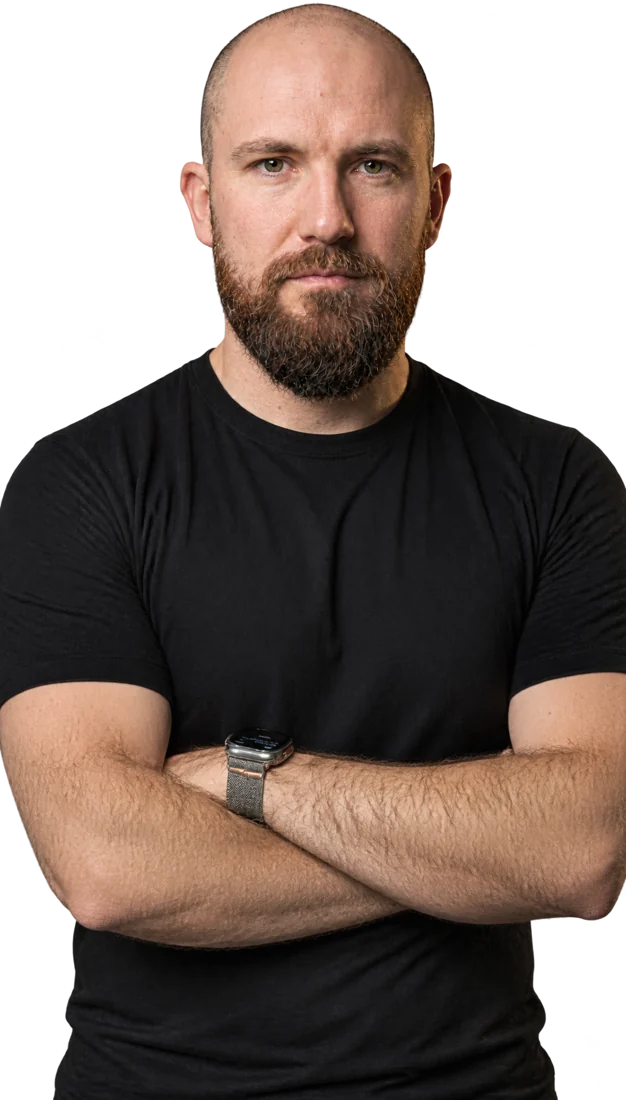
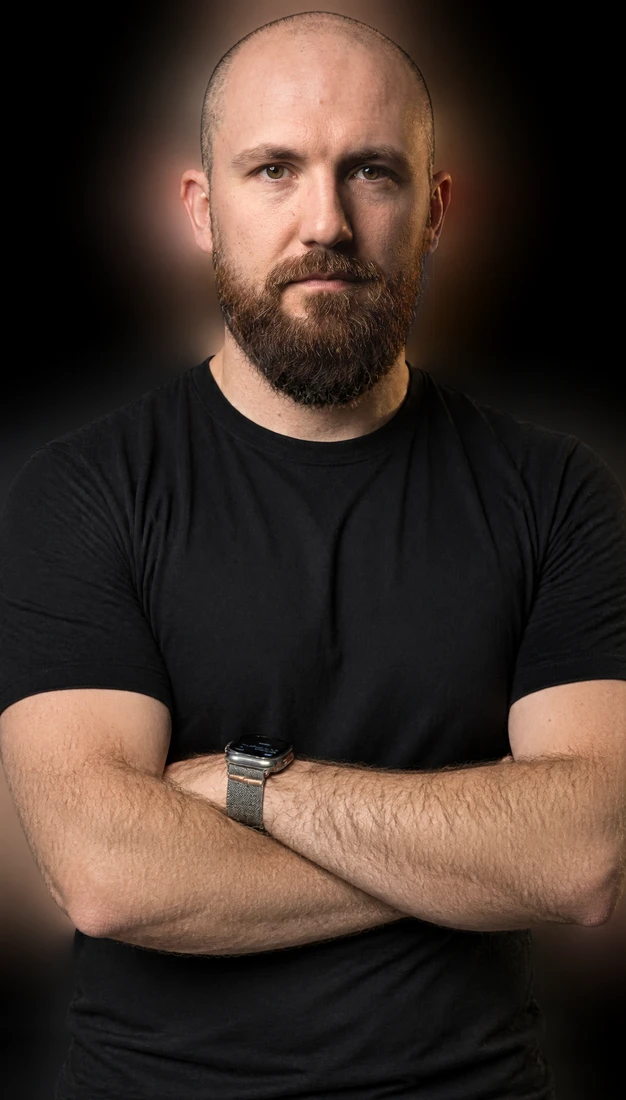
Update site

diff --git a/index.html b/index.html
@@ -169,7 +169,7 @@ footer .wrap{display:flex;justify-content:space-between;gap:20px;flex-wrap:wrap}
 </div></header>
 
 <div class="stats">
-  <div><b>5</b><span>Full briefings</span></div>
+  <div><b>6</b><span>Full briefings</span></div>
   <div><b>18</b><span>Shorts</span></div>
   <div><b>2</b><span>Articles</span></div>
   <div><b>Mon · Wed · Fri</b><span>New videos</span></div>
@@ -328,7 +328,7 @@ footer .wrap{display:flex;justify-content:space-between;gap:20px;flex-wrap:wrap}
 
   <section id="about">
     <div class="about">
-      <img src="img/host.webp?v=1795284240" alt="Damyan Ivanov, host of Fulcrum Brief" loading="lazy">
+      <img src="img/host.webp?v=1795466441" alt="Damyan Ivanov, host of Fulcrum Brief" loading="lazy">
       <div class="txt">
         <span class="kicker">About</span>
         <h2 class="sec" style="margin:6px 0 10px">Analysis from the <span>eastern flank</span></h2>
